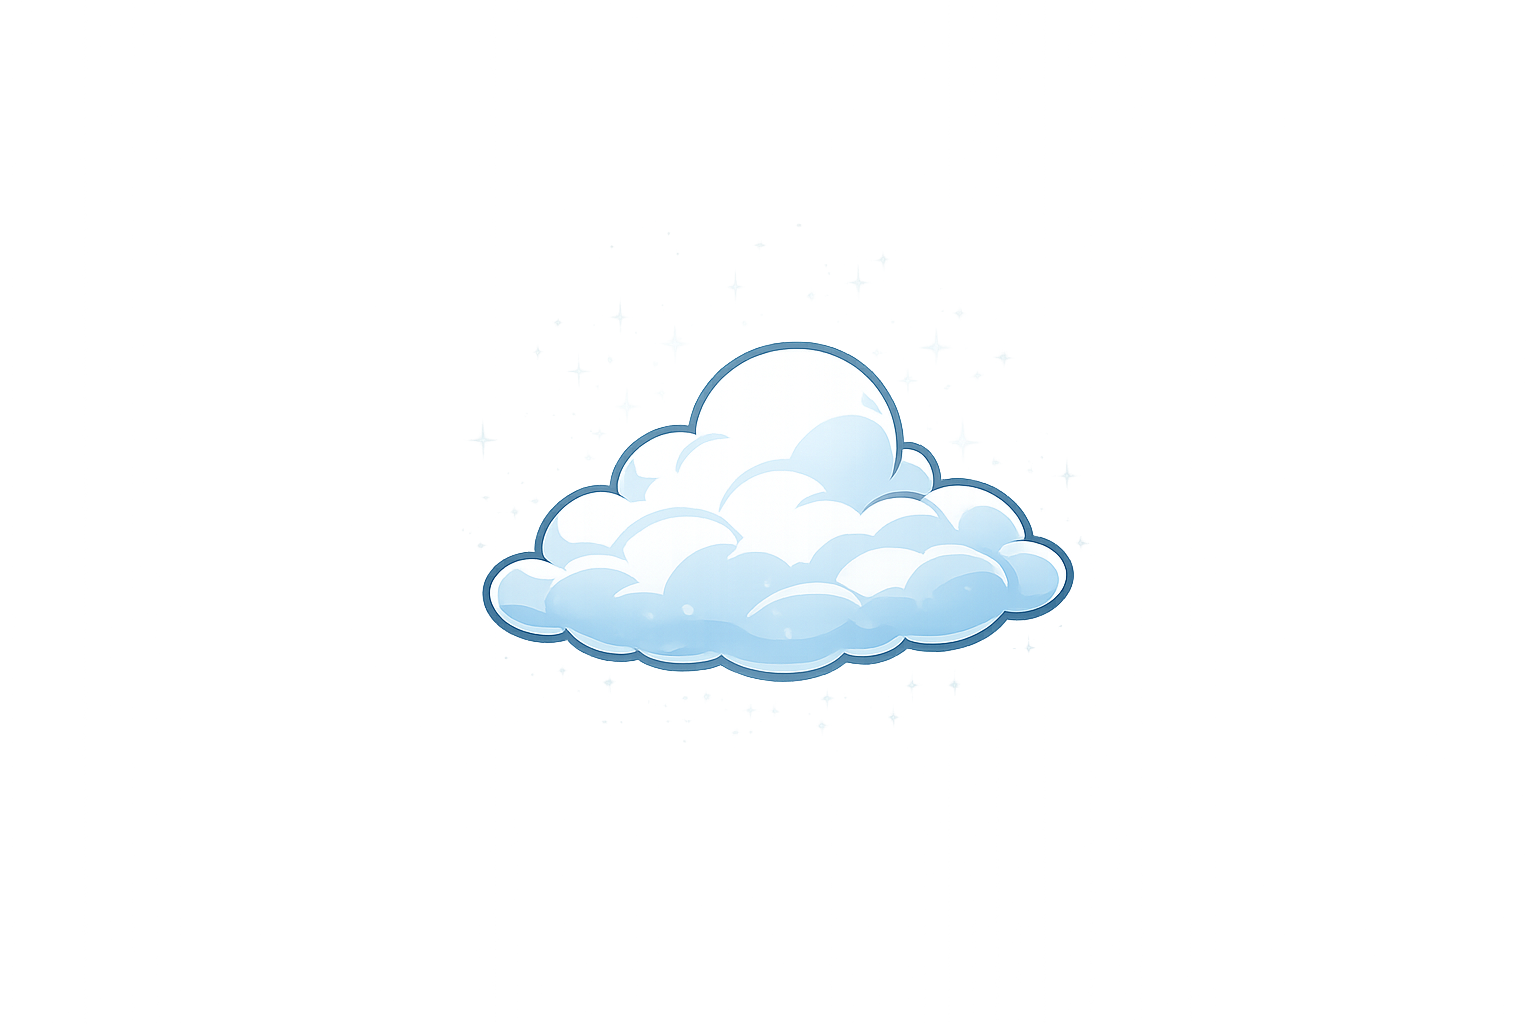
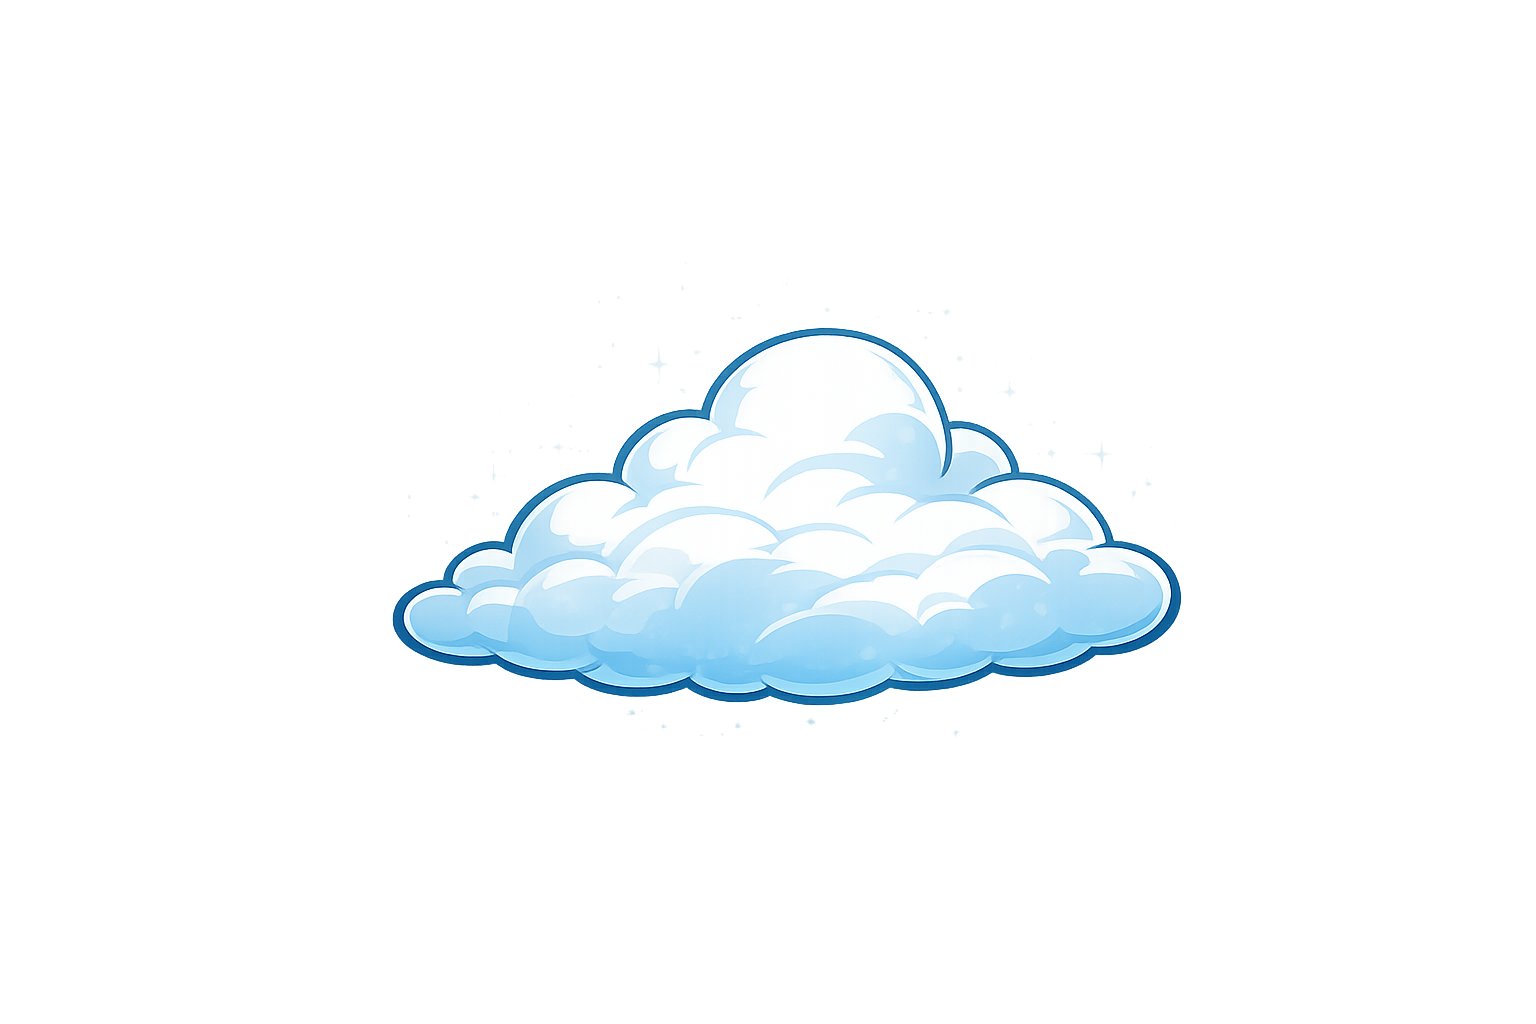
fixes on condesation

Changed region(s): [[0.25, 0.3125, 0.7812, 0.6875]]

diff --git a/client/src/components/hud/HUDObjectiveBar.tsx b/client/src/components/hud/HUDObjectiveBar.tsx
@@ -1,16 +1,33 @@
-import { useState } from 'react';
+import { useState, useMemo } from 'react';
 import { usePhaserEvent } from '../../hooks/usePhaserEvent';
 import { GAME_EVENTS } from '@shared/events';
-import type { HUDObjectivePayload, HUDLevelInfoPayload } from '@shared/events';
+import type { HUDObjectivePayload, HUDLevelInfoPayload, HUDWeatherPayload } from '@shared/events';
+
+/** Map 0–100 to a hue angle (240 = blue, 0 = red) for the spectrum bar. */
+function tempToHue(value: number): number {
+  return Math.max(0, Math.min(240, 240 - (value / 100) * 240));
+}
+
+/** Build a CSS `background` string for the full spectrum gradient. */
+const SPECTRUM_GRADIENT = (() => {
+  const stops = [0, 20, 40, 60, 80, 100];
+  const colors = stops.map(pct => {
+    const hue = tempToHue(pct);
+    return `hsl(${hue}, 100%, 50%) ${pct}%`;
+  });
+  return `linear-gradient(to right, ${colors.join(', ')})`;
+})();
 
 export default function HUDObjectiveBar() {
   const [text, setText] = useState('');
   const [progress, setProgress] = useState(0);
   const [target, setTarget] = useState(0);
   const [levelName, setLevelName] = useState('');
+  const [weather, setWeather] = useState<HUDWeatherPayload | null>(null);
 
   usePhaserEvent(GAME_EVENTS.HUD_LEVEL_INFO, (payload: HUDLevelInfoPayload) => {
     setLevelName(payload.name);
+    setWeather(null);
   });
 
   usePhaserEvent(GAME_EVENTS.HUD_OBJECTIVE, (payload: HUDObjectivePayload) => {
@@ -18,6 +35,18 @@ export default function HUDObjectiveBar() {
     setProgress(payload.progress);
     setTarget(payload.target);
   });
+
+  usePhaserEvent(GAME_EVENTS.HUD_WEATHER, (payload: HUDWeatherPayload) => {
+    setWeather(payload);
+  });
+
+  // Normalise temperature to 0-100 scale for the bar fill
+  const tempBarValue = useMemo(() => {
+    if (weather?.temperature === undefined) return 0;
+    return Math.max(0, Math.min(100, ((weather.temperature - 20) / 60) * 100));
+  }, [weather?.temperature]);
+
+  const fillHue = useMemo(() => tempToHue(tempBarValue), [tempBarValue]);
 
   // Don't render until a level is loaded AND objective is set
   if (!levelName || !text) return null;
@@ -38,6 +67,56 @@ export default function HUDObjectiveBar() {
           <span className="font-display text-sm text-white tabular-nums drop-shadow-[1px_1px_0_rgba(0,0,0,0.5)]">
             {Math.min(progress, target)}/{target}
           </span>
+        </div>
+      )}
+
+      {/* Weather data — right side */}
+      {weather && (
+        <div className="flex items-center gap-3 ml-auto">
+          {weather.temperature !== undefined && (
+            <div className="flex items-center gap-1.5 drop-shadow-[1px_1px_0_rgba(0,0,0,0.5)]">
+              <span className="text-sm">🌡</span>
+              <div className="relative w-16 sm:w-20 h-2.5 rounded-full overflow-hidden border border-white/20 bg-black/30">
+                <div className="absolute inset-0 rounded-full" style={{ background: SPECTRUM_GRADIENT }} />
+                <div
+                  className="absolute inset-y-0 right-0 rounded-r-full bg-black/55 transition-all duration-300"
+                  style={{ width: `${100 - tempBarValue}%` }}
+                />
+                <div
+                  className="absolute top-1/2 -translate-y-1/2 w-2 h-2 rounded-full border border-white shadow-[0_0_4px_rgba(255,255,255,0.6)] transition-all duration-300"
+                  style={{
+                    left: `calc(${tempBarValue}% - 4px)`,
+                    backgroundColor: `hsl(${fillHue}, 100%, 55%)`,
+                  }}
+                />
+              </div>
+              <span className="font-display text-[11px] text-white tabular-nums">{weather.temperature}°C</span>
+            </div>
+          )}
+          {weather.humidity !== undefined && (
+            <div className="flex items-center gap-0.5 drop-shadow-[1px_1px_0_rgba(0,0,0,0.5)]">
+              <span className="text-sm">💧</span>
+              <span className="font-display text-[11px] text-ocean-surface tabular-nums">{weather.humidity}%</span>
+            </div>
+          )}
+          {weather.windSpeed !== undefined && (
+            <div className="flex items-center gap-0.5 drop-shadow-[1px_1px_0_rgba(0,0,0,0.5)]">
+              <span className="text-sm">💨</span>
+              <span className="font-display text-[11px] text-white tabular-nums">{weather.windSpeed}</span>
+            </div>
+          )}
+          {weather.stormLevel !== undefined && (
+            <div className="flex items-center gap-0.5 drop-shadow-[1px_1px_0_rgba(0,0,0,0.5)]">
+              <span className="text-sm">🌀</span>
+              <span className="font-display text-[11px] text-warning-orange tabular-nums">{weather.stormLevel}</span>
+            </div>
+          )}
+          {weather.powerup && (
+            <div className="flex items-center gap-0.5 drop-shadow-[1px_1px_0_rgba(0,0,0,0.5)]">
+              <span className="text-sm">⚡</span>
+              <span className="font-display text-[11px] text-accent-yellow">{weather.powerup}</span>
+            </div>
+          )}
         </div>
       )}
     </div>

diff --git a/client/src/components/hud/HUDWeatherBar.tsx b/client/src/components/hud/HUDWeatherBar.tsx
@@ -45,12 +45,12 @@ export default function HUDWeatherBar() {
   if (!levelName || levelName === 'World Map') return null;
 
   return (
-    <div className="absolute bottom-0 left-0 right-0 z-30 flex items-center justify-center gap-5 sm:gap-8 px-5 py-3 bg-storm-dark/85 border-t-3 border-black/30 shadow-lg shadow-black/30">
+    <div className="absolute top-0 left-0 right-0 z-30 flex items-center justify-center gap-2.5 px-3 py-1 bg-storm-dark/70 border-b border-black/20">
       {weather?.temperature !== undefined && (
-        <div className="flex items-center gap-2 drop-shadow-[1px_1px_0_rgba(0,0,0,0.5)]">
-          <span className="text-xl">🌡</span>
+        <div className="flex items-center gap-1 drop-shadow-[1px_1px_0_rgba(0,0,0,0.5)]">
+          <span className="text-sm">🌡</span>
           {/* Spectrum bar */}
-          <div className="relative w-28 sm:w-36 h-4 rounded-full overflow-hidden border-1.5 border-white/20 bg-black/30">
+          <div className="relative w-16 sm:w-20 h-2.5 rounded-full overflow-hidden border border-white/20 bg-black/30">
             {/* Full spectrum background */}
             <div className="absolute inset-0 rounded-full" style={{ background: SPECTRUM_GRADIENT }} />
             {/* Fill mask — right side darkens the unfilled portion */}
@@ -60,44 +60,44 @@ export default function HUDWeatherBar() {
             />
             {/* Glowing knob */}
             <div
-              className="absolute top-1/2 -translate-y-1/2 w-3 h-3 rounded-full border-1.5 border-white shadow-[0_0_6px_rgba(255,255,255,0.6)] transition-all duration-300"
+              className="absolute top-1/2 -translate-y-1/2 w-2 h-2 rounded-full border border-white shadow-[0_0_4px_rgba(255,255,255,0.6)] transition-all duration-300"
               style={{
-                left: `calc(${tempBarValue}% - 6px)`,
+                left: `calc(${tempBarValue}% - 4px)`,
                 backgroundColor: `hsl(${fillHue}, 100%, 55%)`,
               }}
             />
           </div>
-          <span className="font-display text-sm text-white tabular-nums min-w-[3.5rem]">{weather.temperature}°C</span>
+          <span className="font-display text-[11px] text-white tabular-nums min-w-[2.5rem]">{weather.temperature}°C</span>
         </div>
       )}
       {weather?.humidity !== undefined && (
-        <div className="flex items-center gap-1.5 drop-shadow-[1px_1px_0_rgba(0,0,0,0.5)]">
-          <span className="text-xl">💧</span>
-          <span className="font-display text-base text-ocean-surface tabular-nums">{weather.humidity}%</span>
+        <div className="flex items-center gap-0.5 drop-shadow-[1px_1px_0_rgba(0,0,0,0.5)]">
+          <span className="text-sm">💧</span>
+          <span className="font-display text-[11px] text-ocean-surface tabular-nums">{weather.humidity}%</span>
         </div>
       )}
       {weather?.windSpeed !== undefined && (
-        <div className="flex items-center gap-1.5 drop-shadow-[1px_1px_0_rgba(0,0,0,0.5)]">
-          <span className="text-xl">💨</span>
-          <span className="font-display text-base text-white tabular-nums">{weather.windSpeed} km/h</span>
+        <div className="flex items-center gap-0.5 drop-shadow-[1px_1px_0_rgba(0,0,0,0.5)]">
+          <span className="text-sm">💨</span>
+          <span className="font-display text-[11px] text-white tabular-nums">{weather.windSpeed}</span>
         </div>
       )}
       {weather?.stormLevel !== undefined && (
-        <div className="flex items-center gap-1.5 drop-shadow-[1px_1px_0_rgba(0,0,0,0.5)]">
-          <span className="text-xl">🌀</span>
-          <span className="font-display text-base text-warning-orange tabular-nums">Lv.{weather.stormLevel}</span>
+        <div className="flex items-center gap-0.5 drop-shadow-[1px_1px_0_rgba(0,0,0,0.5)]">
+          <span className="text-sm">🌀</span>
+          <span className="font-display text-[11px] text-warning-orange tabular-nums">{weather.stormLevel}</span>
         </div>
       )}
       {weather?.powerup && (
-        <div className="flex items-center gap-1.5 drop-shadow-[1px_1px_0_rgba(0,0,0,0.5)]">
-          <span className="text-xl">⚡</span>
-          <span className="font-display text-base text-accent-yellow">{weather.powerup}</span>
+        <div className="flex items-center gap-0.5 drop-shadow-[1px_1px_0_rgba(0,0,0,0.5)]">
+          <span className="text-sm">⚡</span>
+          <span className="font-display text-[11px] text-accent-yellow">{weather.powerup}</span>
         </div>
       )}
 
       {/* If no weather data yet, show a simple hint */}
       {!weather && (
-        <span className="font-display text-xs text-storm-light/60">Waiting for weather data...</span>
+        <span className="font-display text-[10px] text-storm-light/60">Waiting for weather data...</span>
       )}
     </div>
   );

diff --git a/client/src/game/scenes/CondensationScene.ts b/client/src/game/scenes/CondensationScene.ts
@@ -53,6 +53,7 @@ export class CondensationScene extends Phaser.Scene {
   private nextVaporId = 0;
 
   // ── Game objects ──
+  private mistLayer!: Phaser.GameObjects.Image;
   private cloudGlow!: Phaser.GameObjects.Image;
   private cloudMeter!: Phaser.GameObjects.Graphics;
   private meterLabel!: Phaser.GameObjects.Text;
@@ -124,17 +125,21 @@ export class CondensationScene extends Phaser.Scene {
     this.emitObjective();
     this.drawCloudMeter();
 
-    // Fade in cloud
-    this.tweens.add({
-      targets: this.cloudGlow,
-      alpha: 1,
-      duration: 800
-    });
-
+    // Fade in meter label immediately
     this.tweens.add({
       targets: this.meterLabel,
       alpha: 1,
       duration: 500
+    });
+
+    // Fade in mist layer (gentle pulse)
+    this.tweens.add({
+      targets: this.mistLayer,
+      alpha: { from: 0, to: 0.5 },
+      duration: 3000,
+      yoyo: true,
+      repeat: -1,
+      ease: 'Sine.easeInOut'
     });
 
     // Spawn initial vapors
@@ -245,9 +250,16 @@ export class CondensationScene extends Phaser.Scene {
       ease: 'Sine.easeInOut'
     });
 
+    // Depth 1.5: Mist layer (between ocean and vapor, fades in after game starts)
+    this.mistLayer = this.add
+      .image(GAME_WIDTH / 2, OCEAN_Y - 130, 'mist_layer')
+      .setDepth(1.5)
+      .setAlpha(0)
+      .setDisplaySize(GAME_WIDTH, 260);
+
     // Depth 4: Growing cloud (starts small, alpha 0)
     this.cloudGlow = this.add
-      .image(CLOUD_X, CLOUD_Y, 'cloud_small')
+      .image(CLOUD_X, CLOUD_Y, 'cloud_glow')
       .setDepth(4)
       .setAlpha(0)
       .setScale(0.1);
@@ -683,7 +695,7 @@ export class CondensationScene extends Phaser.Scene {
       if (!vapor.active || !vapor.sprite.active) continue;
 
       for (const zone of this.coolZones) {
-        if (!zone.sprite.active) continue;
+        if (!zone.sprite.active || zone.isOverheated) continue;
 
         const dist = Phaser.Math.Distance.Between(
           vapor.sprite.x,
@@ -811,6 +823,16 @@ export class CondensationScene extends Phaser.Scene {
   // ═══════════════════════════════════════════════
 
   private updateCloudVisual() {
+    // First time appearing: fade in the cloud
+    if (this.cloudGlow.alpha === 0 && this.cloudProgress > 0) {
+      this.tweens.add({
+        targets: this.cloudGlow,
+        alpha: 1,
+        duration: 500,
+        ease: 'Sine.easeOut'
+      });
+    }
+
     // Smooth continuous growth: 0.1 at 0% → 1.0 at 100%
     const targetScale = 0.1 + (this.cloudProgress / 100) * 0.9;
 

diff --git a/client/src/components/GameHUD.tsx b/client/src/components/GameHUD.tsx
@@ -1,7 +1,6 @@
 import HUDTopBar from './hud/HUDTopBar';
 import HUDObjectiveBar from './hud/HUDObjectiveBar';
 import HUDHealth from './hud/HUDHealth';
-import HUDWeatherBar from './hud/HUDWeatherBar';
 import LevelSelectCards from './hud/LevelSelectCards';
 import WorldMapHeader from './hud/WorldMapHeader';
 import ResultOverlay from './hud/ResultOverlay';
@@ -26,9 +25,6 @@ export default function GameHUD() {
 
       {/* ── Level selection cards (world map) ── */}
       <LevelSelectCards />
-
-      {/* ── Bottom bar: Weather conditions ── */}
-      <HUDWeatherBar />
 
       {/* ── Result overlay (win/fail) ── */}
       <ResultOverlay />

diff --git a/client/src/game/scenes/PreloadScene.ts b/client/src/game/scenes/PreloadScene.ts
@@ -72,6 +72,7 @@ export class PreloadScene extends Phaser.Scene {
     this.load.image('wind_stream', 'images/Stage 2/gameplay/wind_stream.png');
     this.load.image('condensation_effect', 'images/Stage 2/gameplay/condensation_effect.png');
     this.load.image('cloud_glow', 'images/Stage 2/gameplay/cloud_glow.png');
+    this.load.image('mist_layer', 'images/Stage 2/gameplay/Mist Layer.png');
 
     // Generate placeholder textures
     this.generatePlaceholderAssets();
